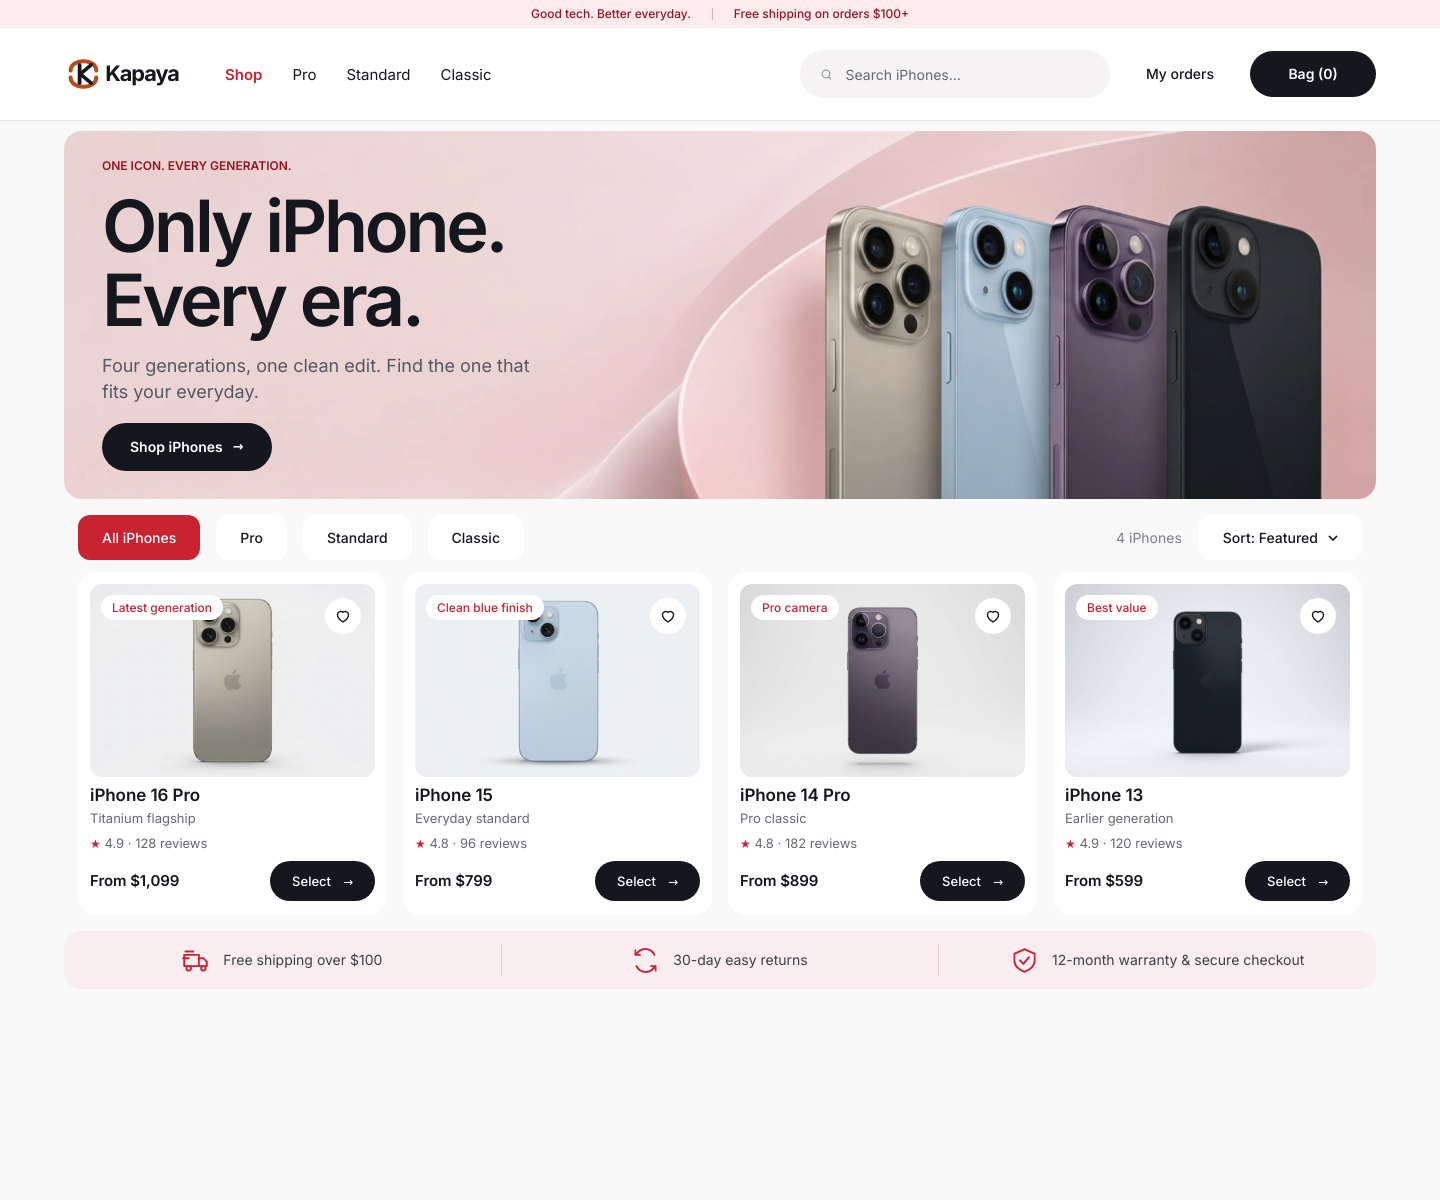
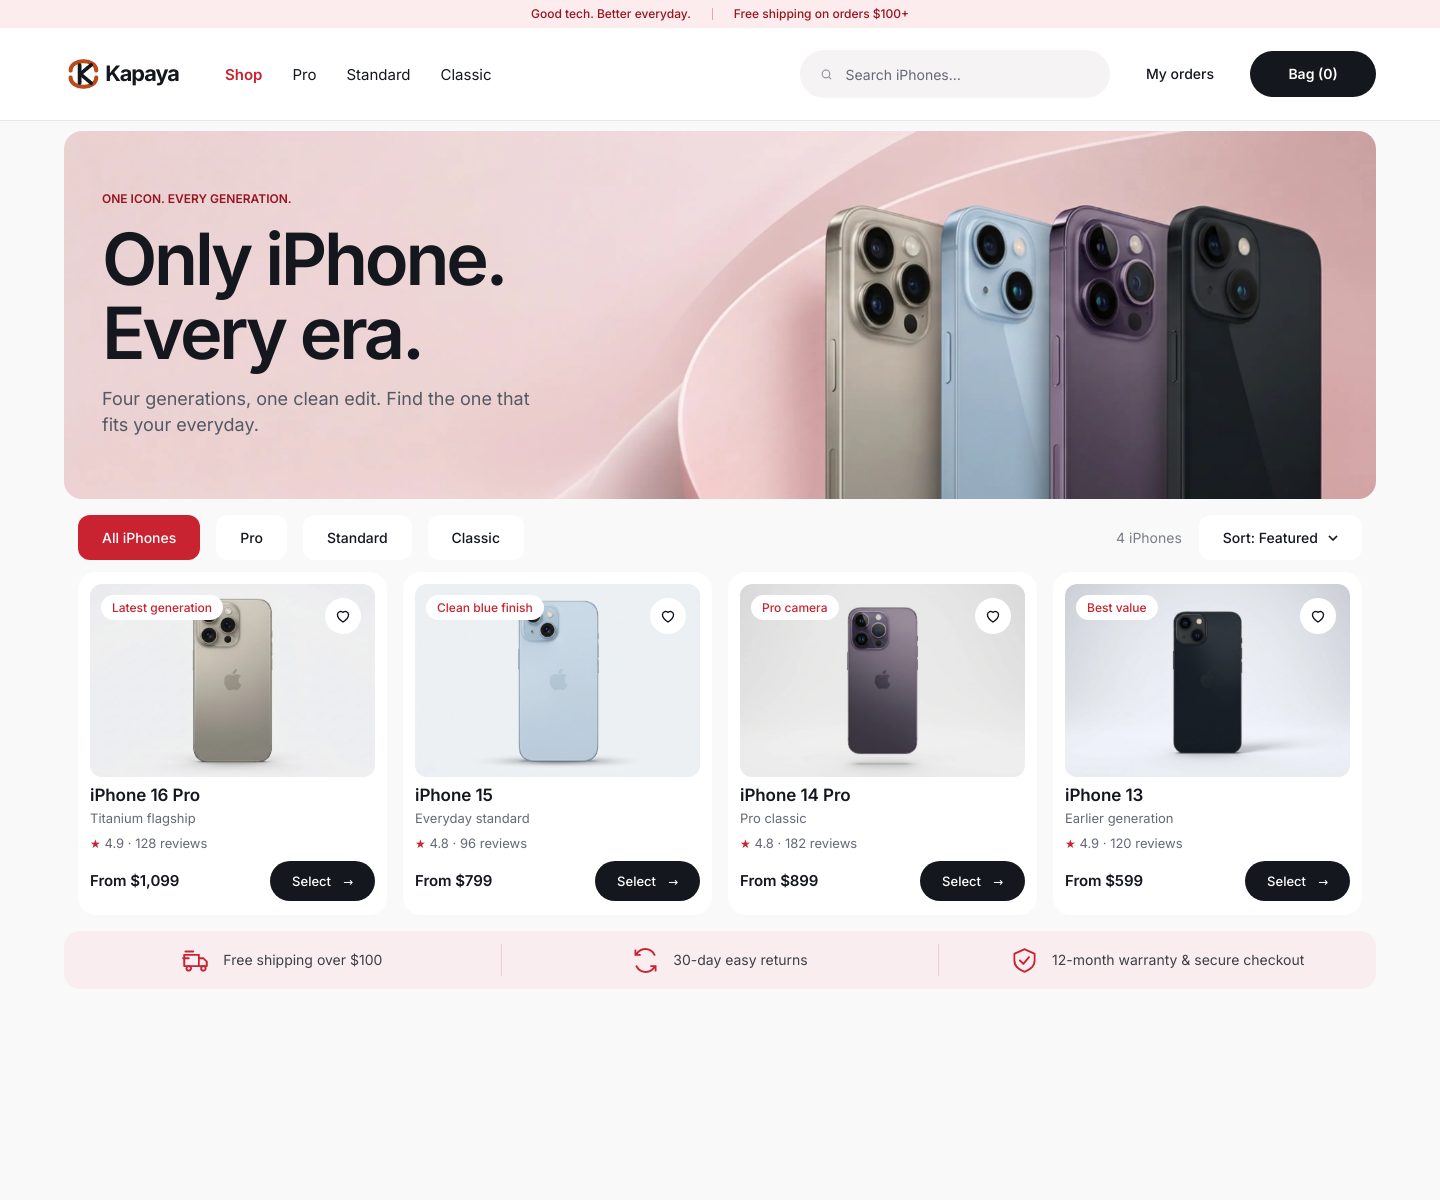
Remove shop hero button

Changed region(s): [[0.0625, 0.1233, 0.375, 0.4008]]

diff --git a/docs/mockup/index.html b/docs/mockup/index.html
@@ -978,7 +978,6 @@ body.is-shop .band-div{display:block}
 .hero-shop .hero-l{width:520px;padding-left:38px;padding-top:0}
 .hero-shop .hero-h{font-size:72px;line-height:74px;letter-spacing:-.045em;margin-top:16px}
 .hero-shop .hero-p{font-size:18px;line-height:26px;max-width:450px;margin-top:16px;color:#535863}
-.hero-shop .btn-dark{height:48px;padding:0 28px;margin-top:18px;border-radius:24px}
 .hero-shop .hero-art{display:none}
 .shop-page .filter-row{margin:16px 14px 0;scroll-margin-top:110px}
 .shop-page .chips{gap:16px}
@@ -1298,7 +1297,6 @@ body.is-shop .shop-footer{display:block;margin-top:auto}
  .shop-page .hero-shop .eyebrow{font-size:10px}
  .shop-page .hero-shop .hero-h{font:600 32px/33px Inter;letter-spacing:-.045em;margin-top:10px}
  .shop-page .hero-shop .hero-p{font:400 12px/17px Inter;margin-top:9px;max-width:210px}
- .shop-page .hero-shop .btn-dark{height:36px;padding:0 18px;margin-top:12px;font-size:12px}
  .shop-page .filter-row{margin:10px 0 0;gap:8px}
  .shop-page .chips{display:flex;flex-wrap:nowrap;overflow-x:auto;gap:7px;scrollbar-width:none}
  .shop-page .chips::-webkit-scrollbar{display:none}
@@ -1489,7 +1487,7 @@ const heroBand = (variant) => {
     <p class="eyebrow">ONE ICON. EVERY GENERATION.</p>
     <h1 class="hero-h">Only iPhone.<br>Every era.</h1>
     <p class="hero-p">Four generations, one clean edit. Find the one that fits your everyday.</p>
-    <a class="btn-dark" ${isHome ? 'data-go="shop"' : 'data-scroll="shop-products"'}>${isHome ? 'Enter the shop' : 'Shop iPhones'} <span class="arw">→</span></a>
+    ${isHome ? '<a class="btn-dark" data-go="shop">Enter the shop <span class="arw">→</span></a>' : ''}
   </div>
   <a class="hero-art" data-go="shop" aria-label="Shop the iPhone collection">
     <img class="hero-phone hero-phone-back" src="${img('iphone-15-blue-back.webp')}" alt="">
